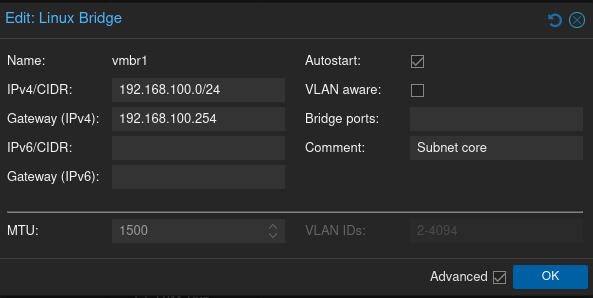
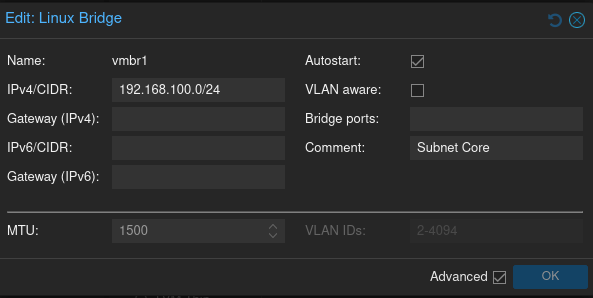
Ajout des interfaces vmbr1 et vmbr2 + test de fonctionnement / isolation

diff --git a/Chapitre 1 - Le design/chapitre1.md b/Chapitre 1 - Le design/chapitre1.md
@@ -89,7 +89,7 @@ Afin de disposer rapidement d'un homelab fonctionnel avec le minimum de services
         - [x] Mise en place des bons dépôts pour l'update
         - [x] Mise en place de la sauvegarde déportée
         - [x] Configuration des interfaces vmbr1 et vmbr2
-        - [ ] Tester le bon fonctionnement
+        - [x] Tester le bon fonctionnement
     - [ ] Installation de PFSense
         - [ ] Importer l'ISO de PFSense
         - [ ] Configurer la VM avec deux interface (vmbr0 et vmbr1)

diff --git a/Chapitre 2 - Proxmox et réseau/chapitre2.md b/Chapitre 2 - Proxmox et réseau/chapitre2.md
@@ -99,3 +99,5 @@ Voici un exemple de configuration avec `vmbr1`
 
 ![alt text](configure-int.png)
 
+Pour tester que cela fonctionne correctement, nous allons exécuter deux container alpine. Le premier container avec une interface réseau positionné sur `vmbr1` et le second sur `vmbr2`, puis nous allons installer le package `iputils-ping` pour disposer du ping et vérifier que nos container sont dans l'incapacité de communiquer entre eux.
+
